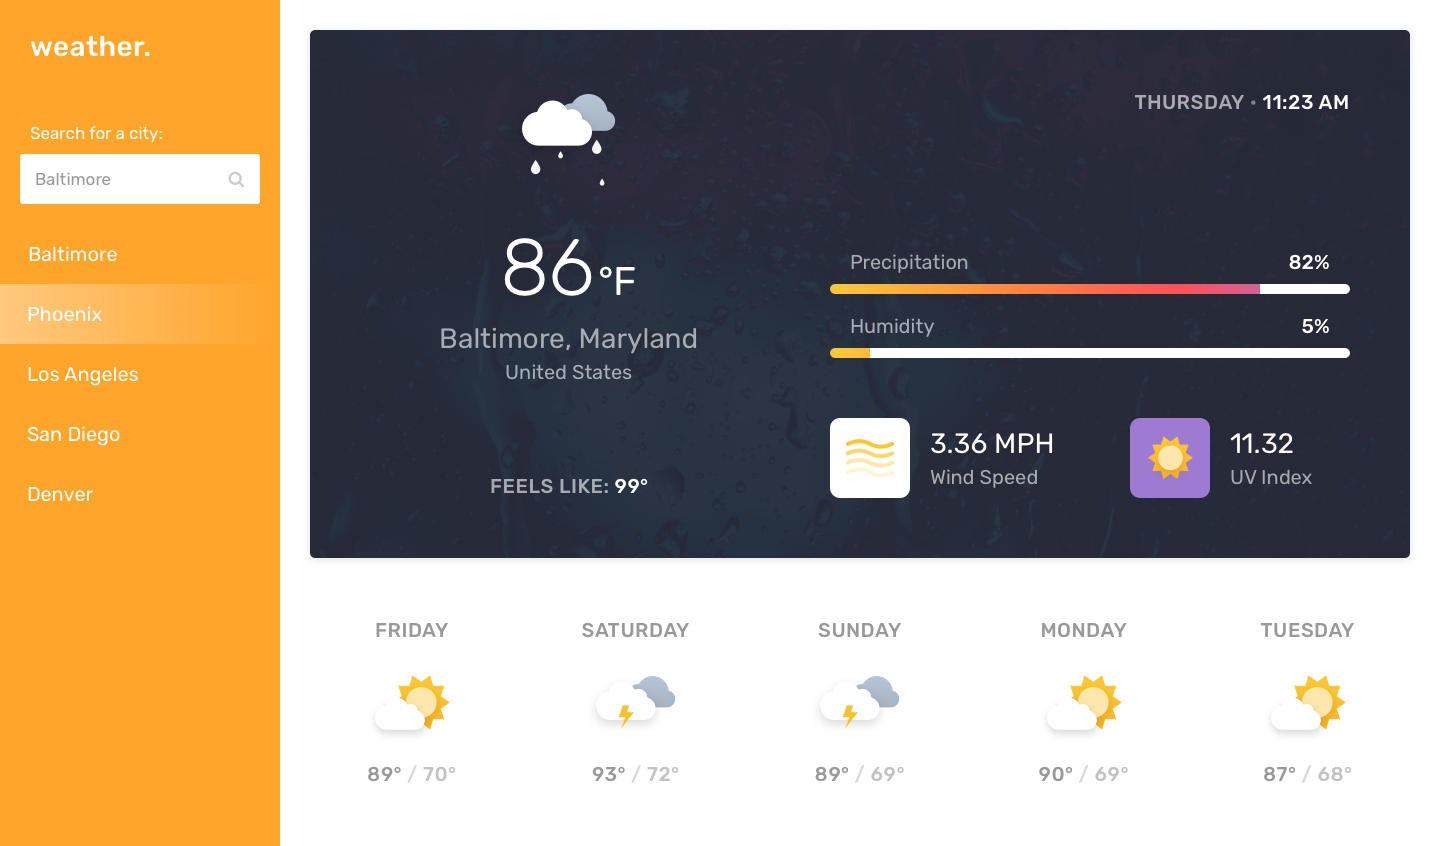
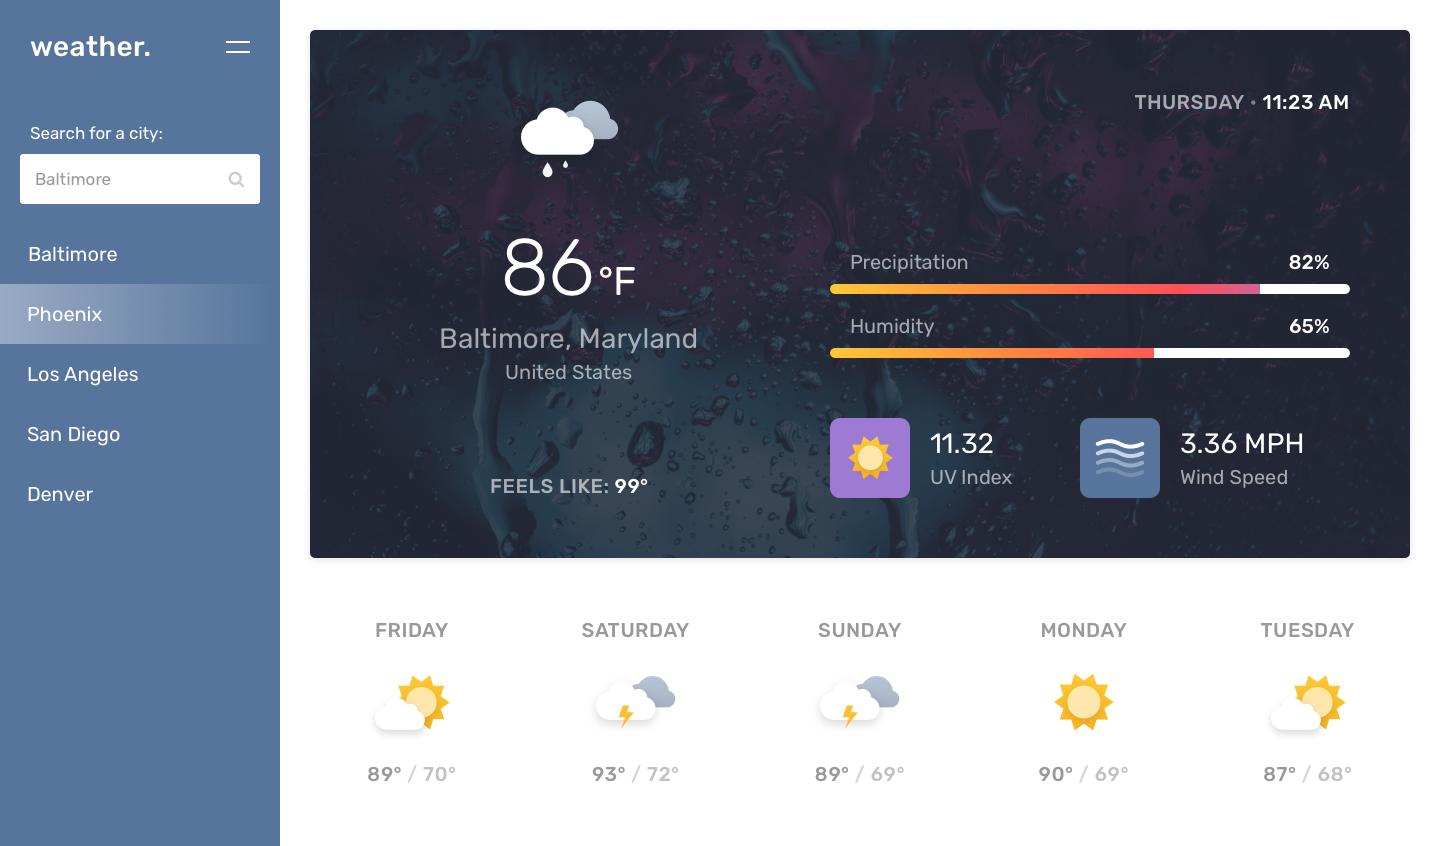
functional toggle menu with search that outputs list

diff --git a/js/main.js b/js/main.js
@@ -9,3 +9,97 @@
 // Search submit triggers info on dashboard to update
 
 // Clicking an item in the sidebar triggers info on dashboard to update
+
+
+
+
+
+
+
+
+// create nav variable
+var nav = $('#nav');
+
+var toggle = $('#toggle').attr('style', 'opacity: 0.4');
+
+// pull open/closed status from storage and add class to nav
+var navStatus = localStorage.getItem('Navigation');
+if (navStatus !== '') {
+	nav.addClass(navStatus);
+}
+
+// if nav doesn't have either open/closed class, add open class
+if (nav.hasClass('open') === false && nav.hasClass('closed') === false) {
+	nav.addClass('open');
+}
+
+// on toggle menu click...
+$('#toggle').on('click', function(event) {
+	event.preventDefault();
+	
+	// if menu is open...
+	if (nav.hasClass('open')) {
+		
+		// close menu
+		nav.removeClass('open');
+		nav.addClass('closed');
+		nav.attr('style', 'padding: 24px 13px');
+		
+		// send status to storage
+		localStorage.setItem('Navigation', 'closed');
+	
+	// if menu is closed...
+	} else {
+		
+		// open menu
+		nav.removeClass('closed');
+		nav.addClass('open');
+		nav.attr('style', 'padding: 24px 15px');
+		
+		// send status to storage
+		localStorage.setItem('Navigation', 'open');
+		
+	}
+	
+});
+
+// create empty list array
+var listArray = [];
+
+// create search list <section> and <ul>
+var searchList = $('<section>').attr('id', 'search-list').addClass('row');
+var ul = $('<ul>').addClass('col-12');
+
+// if storage has list items, push items to list array and prepend to search list
+var storage = localStorage.getItem('List Items');
+if (storage !== null) {
+	listArray = storage.split(',');
+	listArray.forEach(function(i) {	
+		var storageItem = $('<li>').text(i);
+		ul.prepend(storageItem);	
+	});
+}
+
+// append search list <section> and <ul>
+searchList.append(ul);
+nav.append(searchList);
+
+// on search form submit...
+$('#nav form').on('submit', function(event) {
+	event.preventDefault();
+	
+	// grab the search value, then empty the field
+	var search = $('#search').val();
+	$('#search').val('');
+	
+	// if search has a value, prepend item to list
+	if (search !== '') {
+		var li = $('<li>').text(search);
+		ul.prepend(li);
+		
+		// push new item to list array and send array to local storage
+		listArray.push(li.text());
+		localStorage.setItem('List Items', listArray);
+	}
+
+});

diff --git a/css/style.css b/css/style.css
@@ -5,6 +5,127 @@ html {
   	scroll-behavior: smooth;
 	overflow-x: hidden;
 }
+body {
+	font-family: 'Rubik', sans-serif;
+}
+h1 {
+    font-size: 28px;
+    line-height: 1;
+    margin: 0;
+    font-weight: 500;
+    color: #fff;
+}
+button:focus, .btn:focus, input#search, input#search:focus, input#search:active {
+    outline: none;
+    border: none;
+    box-shadow: none;
+}
+/* —————————— TOGGLE MENU –––––––––– */
+#nav {
+    max-width: 280px;
+    padding: 24px 15px;
+    transition: 0.3s ease;
+    background: #56749C;
+	height: 100vh;
+    overflow: scroll;
+}
+#nav.closed {
+    margin-left: -230px;
+}
+#nav header {
+    margin-bottom: 60px;
+}
+#toggle {
+    margin: 0 15px;
+    border: 0;
+    background: transparent;
+    padding: 0;
+    max-width: 24px;
+    height: 28px;
+    opacity: 0;
+    transition: 0.1s ease;
+}
+#toggle:before, #toggle:after {
+    content: " ";
+    height: 2px;
+    width: 24px;
+    background: #fff;
+    position: absolute;
+    right: 0;
+}
+#toggle:before {
+    top: 8px;
+}
+#toggle:after {
+    bottom: 8px;
+}
+#nav label {
+    font-size: 14px;
+    color: #fff;
+    margin: 4px 4px 8px;
+    opacity: 0.8;
+    max-height: 21px;
+    overflow: hidden;
+}
+#nav form {
+    margin: 0 0 20px!important;
+    background: #fff;
+    border-radius: 2px;
+    max-height: 48px;
+    overflow: hidden;
+}
+#search, #nav form button {
+    border-radius: 0!important;
+    border: 0!important;
+    background: transparent!important;
+}
+input#search {
+    height: 48px;
+}
+#nav form button {
+    color: #ccc;
+}
+#search-list {
+    margin: 0px -15px;
+}
+#search-list .col-12 {
+    padding: 0;
+    margin: 0;
+}
+#search-list li {
+    padding: 16px 20px;
+    font-size: 17px;
+    line-height: 1.2;
+    color: #fff;
+}
+#search-list li.active, #search-list li:hover {
+    background-image: linear-gradient(90deg, rgba(255,255,255,0.4), transparent);
+}
+#nav label, #nav form, #search-list {
+    transition: 0.1s ease;
+}
+#nav.closed label, #nav.closed form, #nav.closed #search-list {
+	opacity: 0;
+}
+#nav.open #toggle:before {
+    transform: rotate(45deg);
+    top: 13px;
+}
+#nav.open #toggle:after {
+    transform: rotate(-45deg);
+    bottom: 13px;
+}
+
+
+
+
+
+
+
+
+
+
+
 @media (max-width: 991px) {
 
 }

diff --git a/index.html b/index.html
@@ -7,12 +7,44 @@
 
 <link rel="stylesheet" href="css/reset.css">
 <link rel="stylesheet" href="https://stackpath.bootstrapcdn.com/bootstrap/4.5.0/css/bootstrap.min.css" integrity="sha384-9aIt2nRpC12Uk9gS9baDl411NQApFmC26EwAOH8WgZl5MYYxFfc+NcPb1dKGj7Sk" crossorigin="anonymous">
+<link rel='stylesheet prefetch' href='https://cdnjs.cloudflare.com/ajax/libs/font-awesome/4.7.0/css/font-awesome.min.css'>
+<link href="https://fonts.googleapis.com/css2?family=Rubik:ital,wght@0,300;0,400;0,500;1,400&display=swap" rel="stylesheet">
 <link rel="stylesheet" href="css/style.css">
 
 <title>weather.</title>
     
 </head>
 <body>
+	
+<main class="container-fluid">
+	<div class="row">
+
+		<navigation id="nav" class="col">
+		
+			<header class="row">
+				<h1 class="col">weather.</h1>
+				<button id="toggle" class="col"></button>
+			</header>
+			<label>Search for a city:</label>
+			<form class="row">
+				<input id="search" class="form-control col-10" type="text" placeholder="Search">
+				<button type="submit" class="btn col"><i class="fa fa-search" aria-hidden="true"></i></button>	
+			</form>
+			
+		</navigation>
+		
+		<section id="content" class="col p-4">
+		</section>
+
+	</div>
+</main>
+
+
+
+
+
+
+
 
 
 
